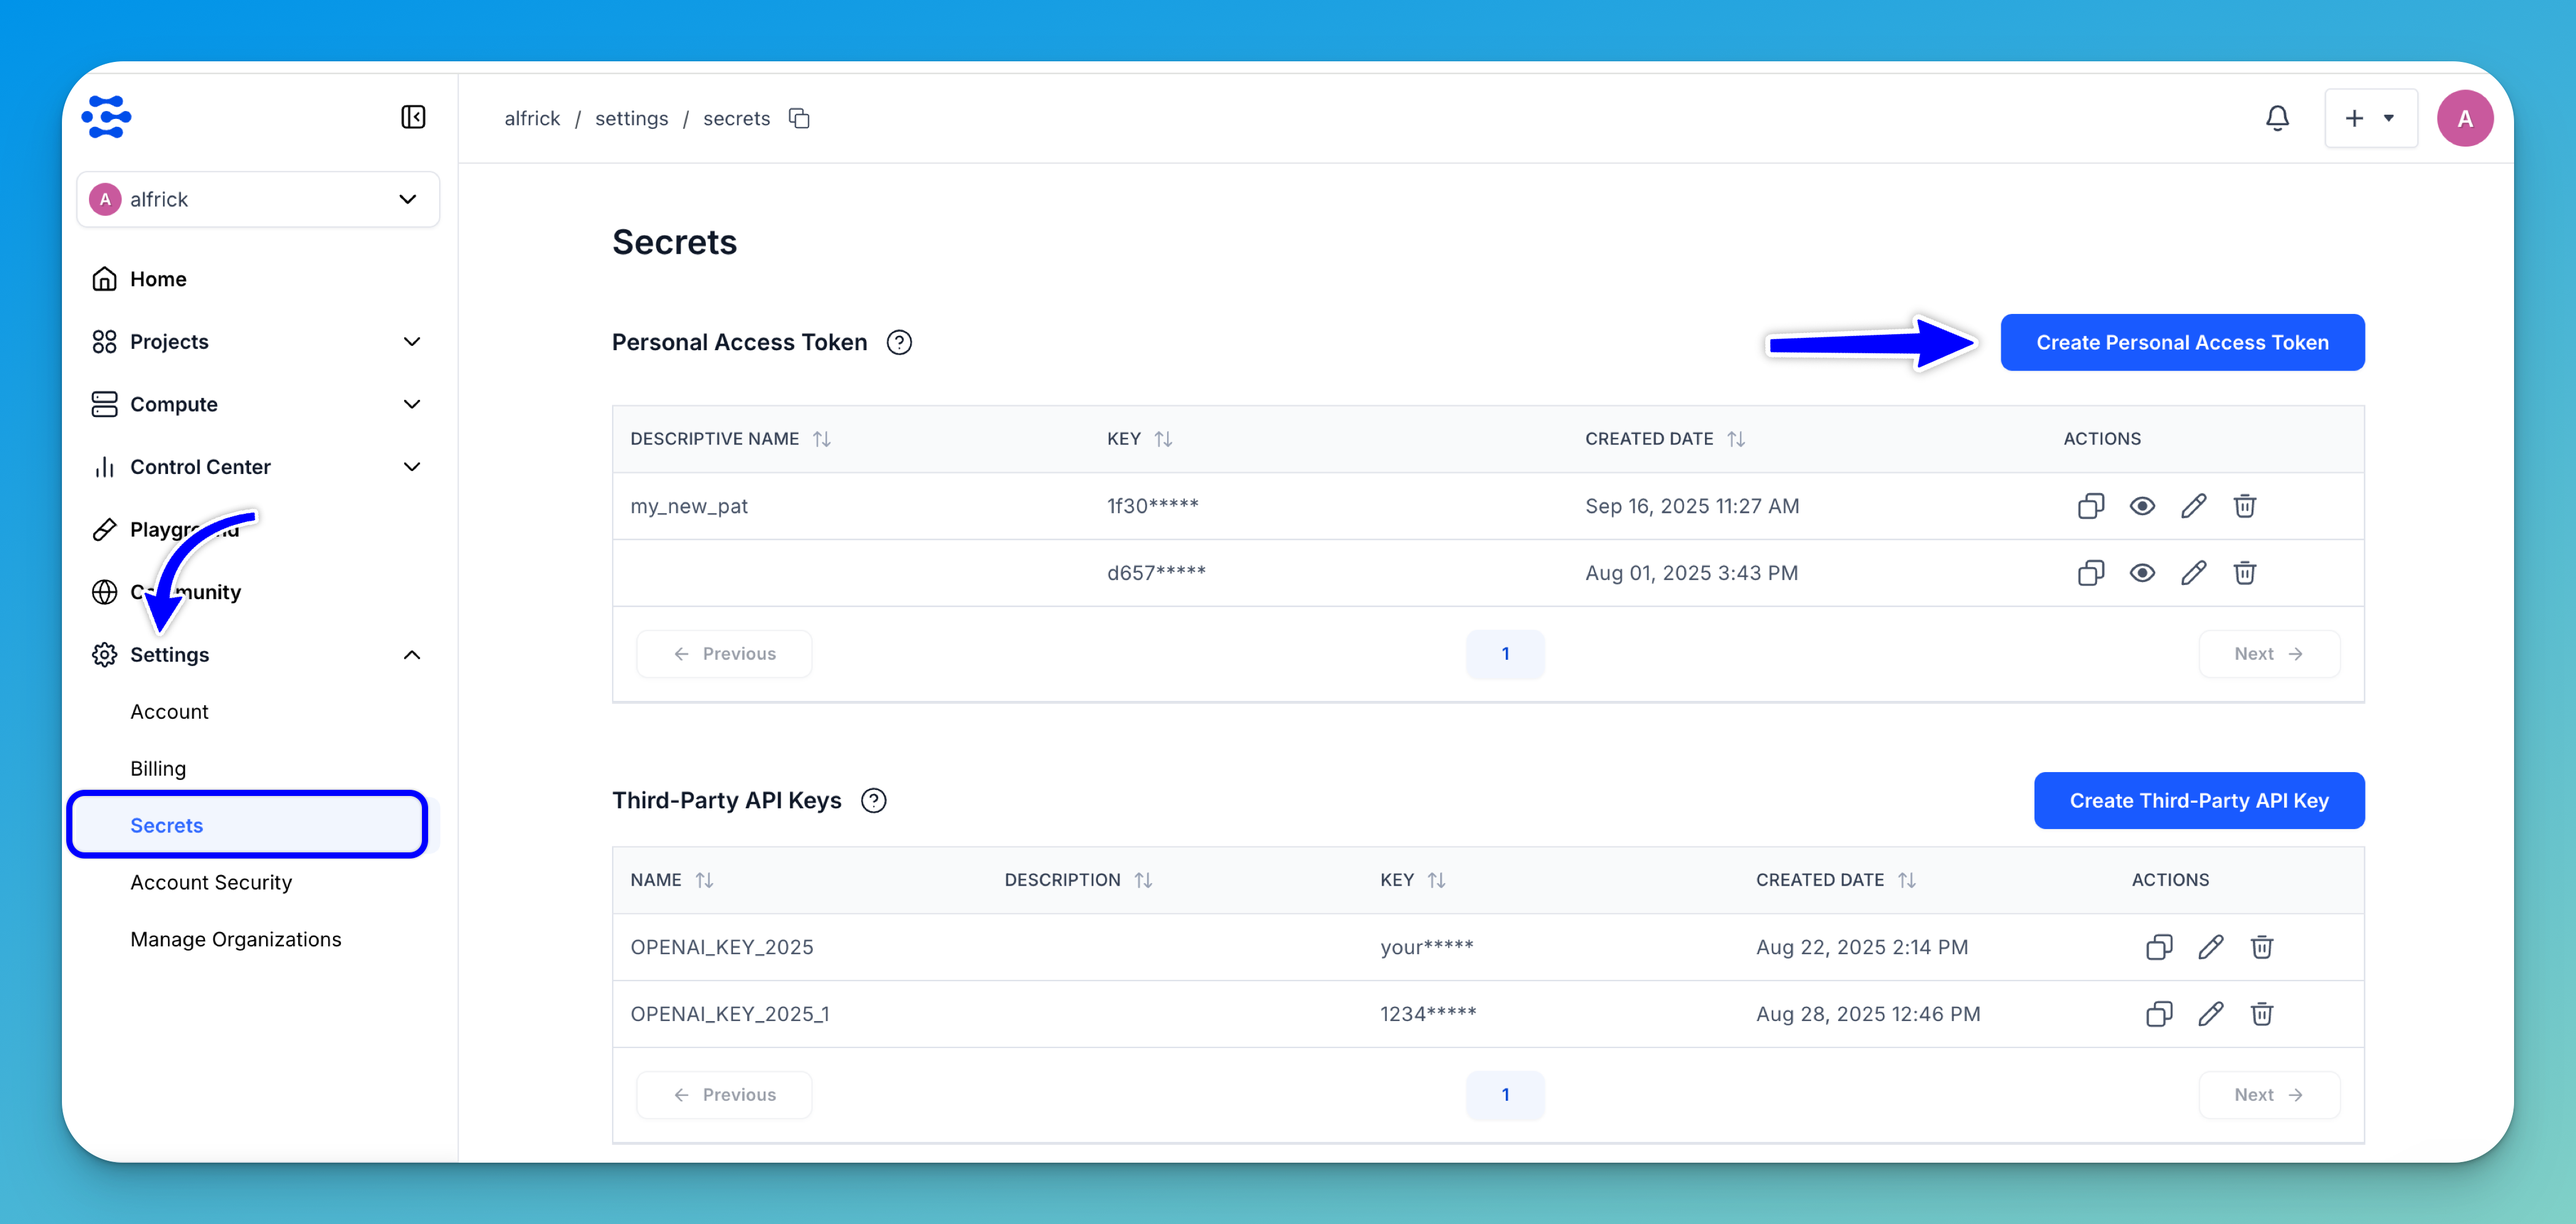
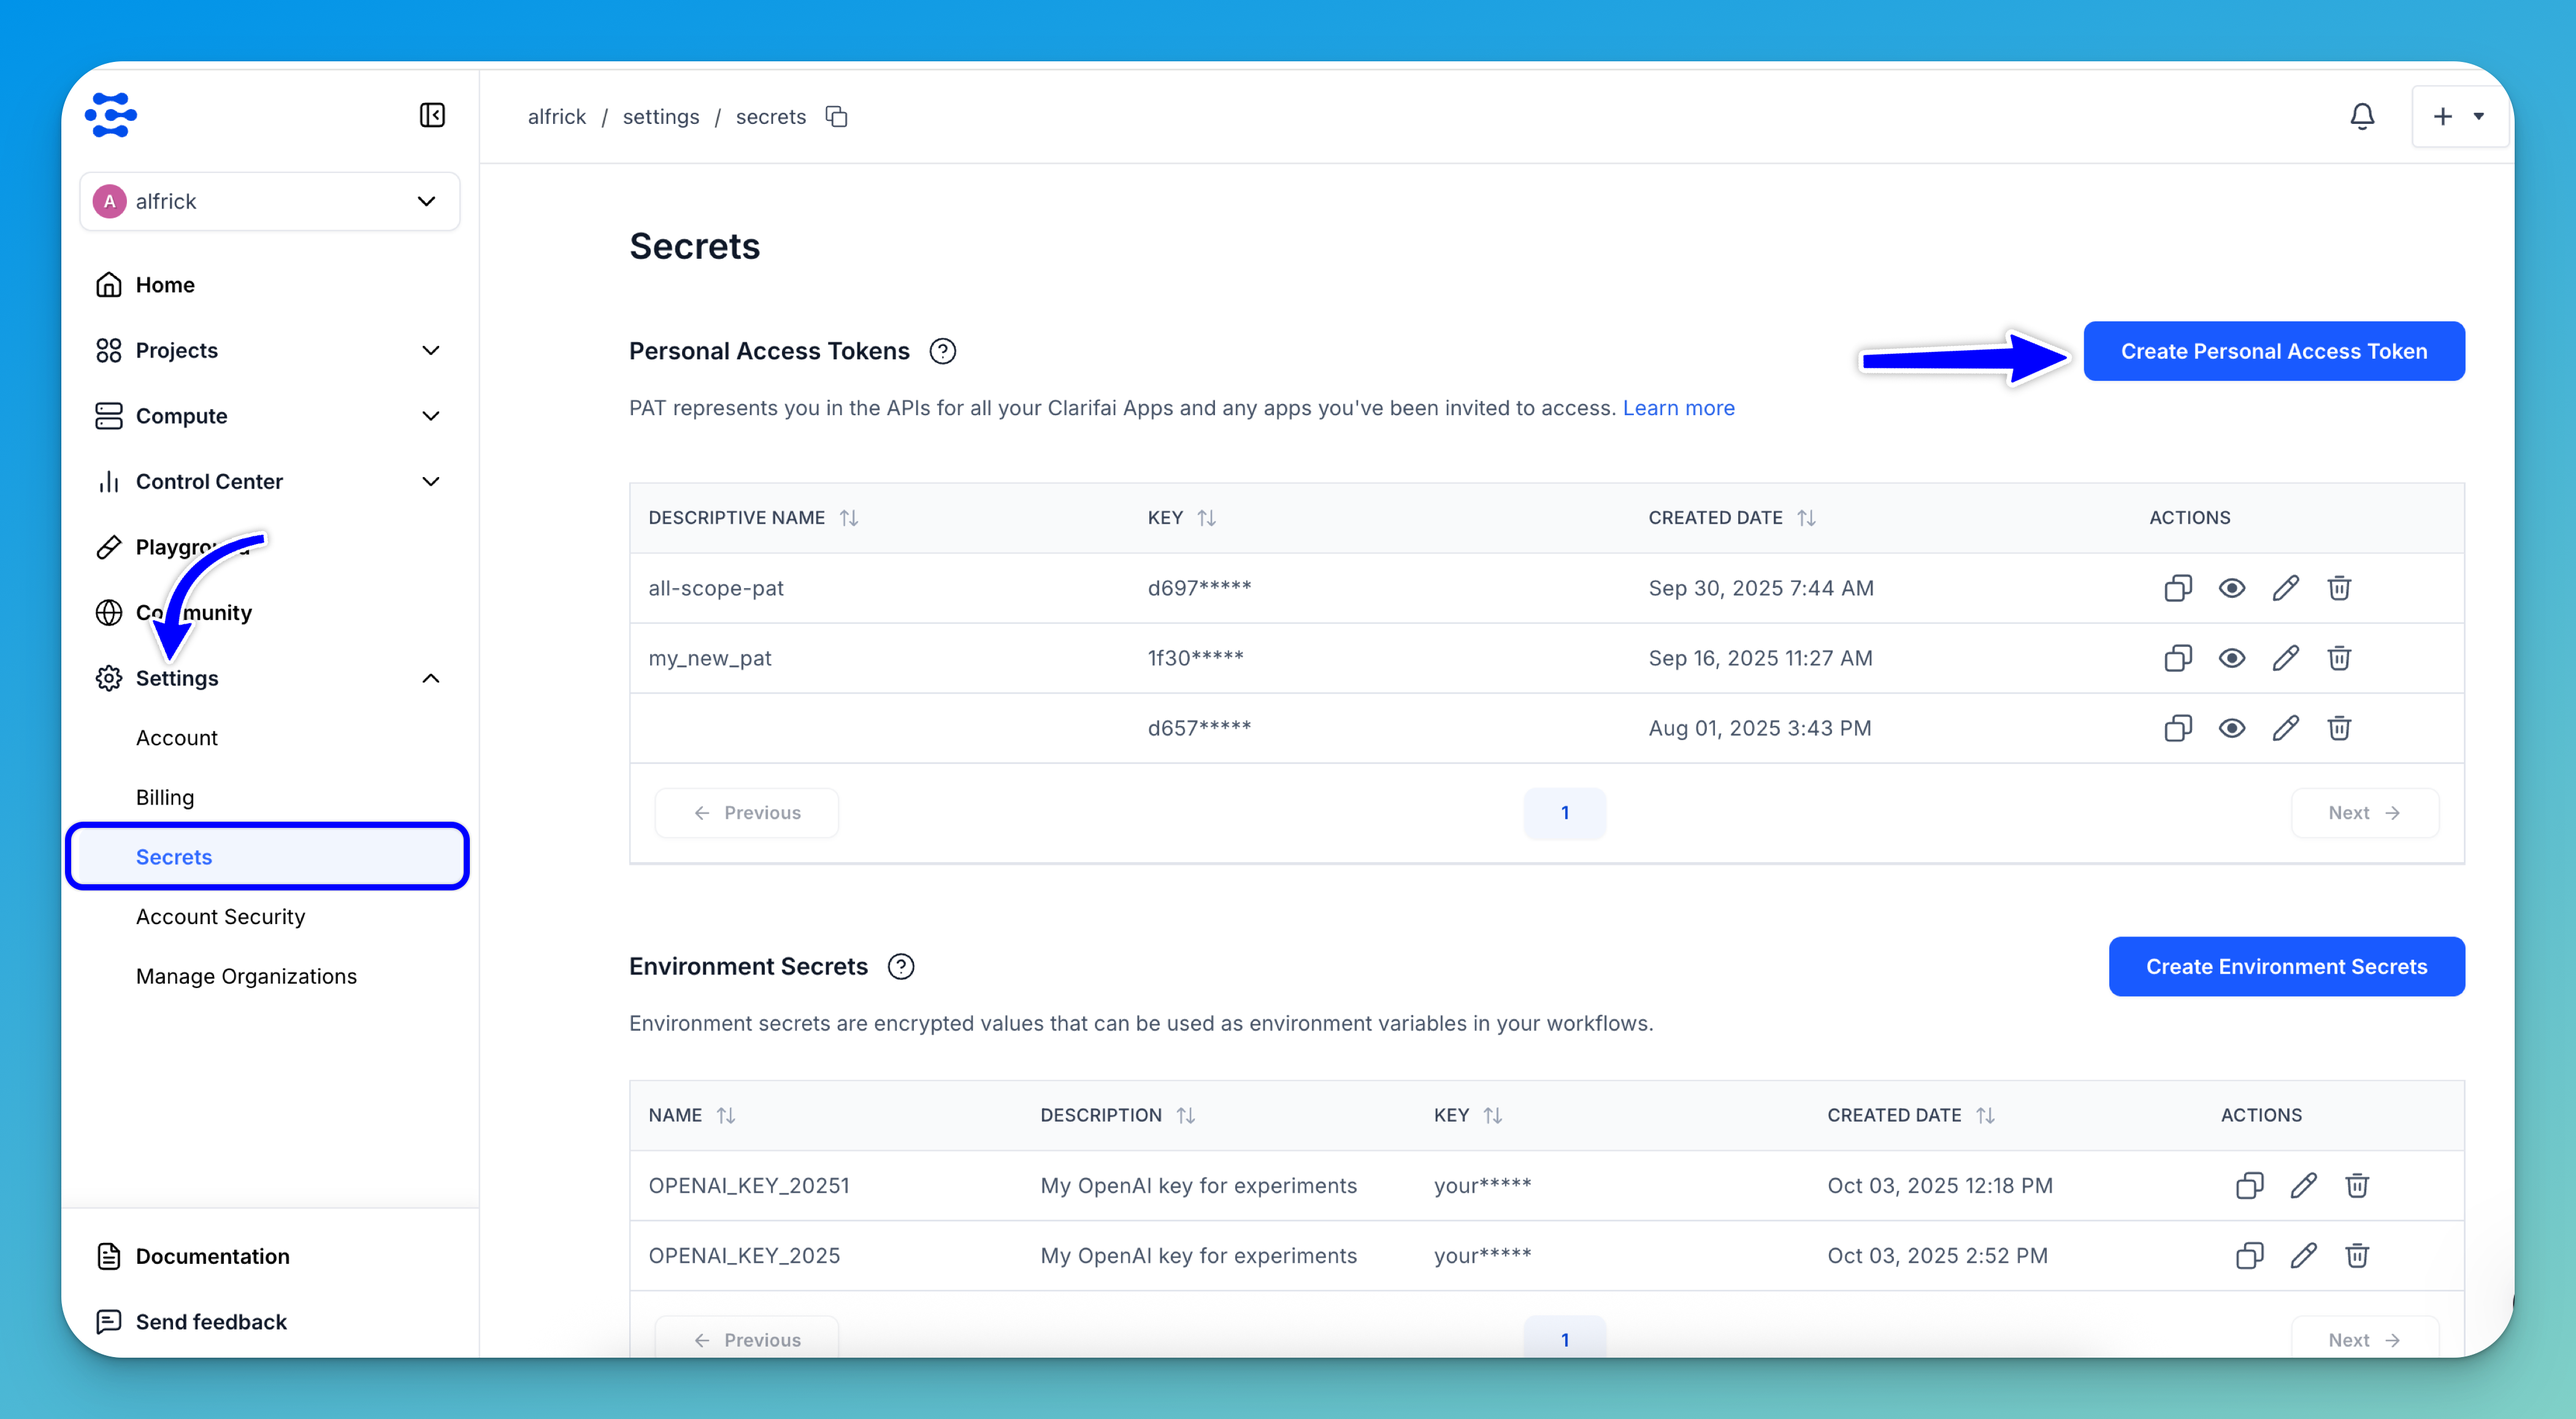
updated API reference

diff --git a/docs/getting-started/upload-model.md b/docs/getting-started/upload-model.md
@@ -40,8 +40,8 @@ To get started, [log in to](https://clarifai.com/login) your existing Clarifai a
 Next, retrieve the following credentials:
 
 - **App ID** – Navigate to your application’s page and select the [**Overview**](https://docs.clarifai.com/create/applications/manage#app-overview) option in the collapsible left sidebar. Get the app ID from there. 
-- **User ID** – Go to your personal settings page and locate your user ID under the **Account** section.
-- **PAT** – From the same personal settings page, go to the **Security** section to generate or copy your [Personal Access Token (PAT)](https://docs.clarifai.com/control/authentication/pat). This token is used to authenticate your connection with the Clarifai platform.
+- **User ID** – Navigate to **Settings** in the collapsible left sidebar and select the **Account** option. Then, copy your user ID from that page. 
+- **PAT** – From the same **Settings** menu, go to the **Secrets** page to generate or copy your [Personal Access Token (PAT)](https://docs.clarifai.com/control/authentication/pat). This token is used to authenticate your connection with the Clarifai platform.
 
 You need to set the `CLARIFAI_PAT` you've retrieved as an environment variable. 
 

diff --git a/docs/getting-started/quickstart.md b/docs/getting-started/quickstart.md
@@ -42,7 +42,7 @@ You can easily find a model to use by heading to the Community homepage and expl
 
 ## Step 3: Get a PAT Key
 
-To authenticate your connection to Clarifai, you’ll need a [Personal Access Token (PAT)](https://docs.clarifai.com/control/authentication/pat). You can obtain one from your personal settings page by navigating to the **Security** section.
+To authenticate your connection to Clarifai, you’ll need a [Personal Access Token (PAT)](https://docs.clarifai.com/control/authentication/pat). You can get one by navigating to **Settings** in the collapsible left sidebar, selecting **Secrets**, and creating or copying an existing token from there.
 
 Then, set the PAT as an environment variable using `CLARIFAI_PAT`. This will authenticate your session when using the SDKs, including the [Clarifai CLI](https://docs.clarifai.com/resources/api-overview/cli).
 

diff --git a/docs/compute/inference/clarifai/api.md b/docs/compute/inference/clarifai/api.md
@@ -80,7 +80,7 @@ import CLIUnaryStreamImage from "!!raw-loader!../../../../code_snippets/python-s
 
 ### Get a PAT Key
 
-You need a PAT (Personal Access Token) key to authenticate your connection to the Clarifai platform. You can generate the PAT key in your personal settings page by navigating to the **Security** section.
+You need a [PAT](https://docs.clarifai.com/control/authentication/pat/#how-to-create-a-pat-on-the-platform) (Personal Access Token) key to authenticate your connection to the Clarifai platform. You can get one by navigating to **Settings** in the collapsible left sidebar, selecting **Secrets**, and creating or copying an existing token from there.
 
 You can then set the PAT as an environment variable using `CLARIFAI_PAT`. This also authenticates your session when using the Clarifai’s CLI. 
 

diff --git a/docs/compute/inference/vercel.md b/docs/compute/inference/vercel.md
@@ -36,7 +36,7 @@ Install the Vercel AI SDK (`ai`) and the OpenAI Provider package for the SDK (`@
 
 ### Get a PAT Key
 
-You need a [PAT](https://docs.clarifai.com/control/authentication/pat) (Personal Access Token) key to authenticate your connection to the Clarifai platform. You can generate the PAT key in your personal settings page by navigating to the [Security section](https://clarifai.com/settings/security).
+You need a [PAT](https://docs.clarifai.com/control/authentication/pat) (Personal Access Token) key to authenticate your connection to the Clarifai platform. You can get one by navigating to **Settings** in the collapsible left sidebar, selecting **Secrets**, and creating or copying an existing token from there.
 
 You can then set the PAT as an environment variable using `CLARIFAI_PAT`:
 

diff --git a/docs/compute/inference/open-ai.md b/docs/compute/inference/open-ai.md
@@ -57,7 +57,7 @@ Install the `openai` package.
 
 ### Get a PAT Key
 
-You need a [Personal Access Token (PAT)](https://docs.clarifai.com/control/authentication/pat) key to authenticate your connection to the Clarifai platform. You can obtain one from your personal settings page by navigating to the **Security** section.
+You need a [Personal Access Token (PAT)](https://docs.clarifai.com/control/authentication/pat) key to authenticate your connection to the Clarifai platform. You can get one by navigating to **Settings** in the collapsible left sidebar, selecting **Secrets**, and creating or copying an existing token from there.
 
 You can then set the PAT as an environment variable using `CLARIFAI_PAT`:
 

diff --git a/docs/compute/inference/litellm.md b/docs/compute/inference/litellm.md
@@ -43,7 +43,7 @@ Install the `litellm` package.
 
 ### Get a PAT Key
 
-You need a [PAT](https://docs.clarifai.com/control/authentication/pat) key to authenticate your connection to the Clarifai platform. You can generate the PAT key in your personal settings page by navigating to the [Security section](https://clarifai.com/settings/security).
+You need a [PAT](https://docs.clarifai.com/control/authentication/pat) key to authenticate your connection to the Clarifai platform. You can get one by navigating to **Settings** in the collapsible left sidebar, selecting **Secrets**, and creating or copying an existing token from there.
 
 You can then set the PAT as an environment variable using `CLARIFAI_PAT`:
 

diff --git a/docs/compute/deployments/clusters-nodepools.md b/docs/compute/deployments/clusters-nodepools.md
@@ -165,7 +165,7 @@ pip install --upgrade clarifai
 
 #### Get a PAT
 
-You need a [PAT (Personal Access Token)](https://docs.clarifai.com/control/authentication/pat) key to authenticate with the Clarifai platform. You can generate one from your personal settings page under the **Security** section.
+You need a [PAT (Personal Access Token)](https://docs.clarifai.com/control/authentication/pat) key to authenticate with the Clarifai platform. You can get one by navigating to **Settings** in the collapsible left sidebar, selecting **Secrets**, and creating or copying an existing token from there.
 
 After generating it, set the token as an environment variable.
 

diff --git a/docs/control/authentication/environment-secrets.md b/docs/control/authentication/environment-secrets.md
@@ -5,7 +5,7 @@ unlisted: true
 toc_max_heading_level: 4
 ---
 
-# Third-Party API Keys
+# Environment Secrets
 
 **Securely connect external services with secrets**
 <hr />
